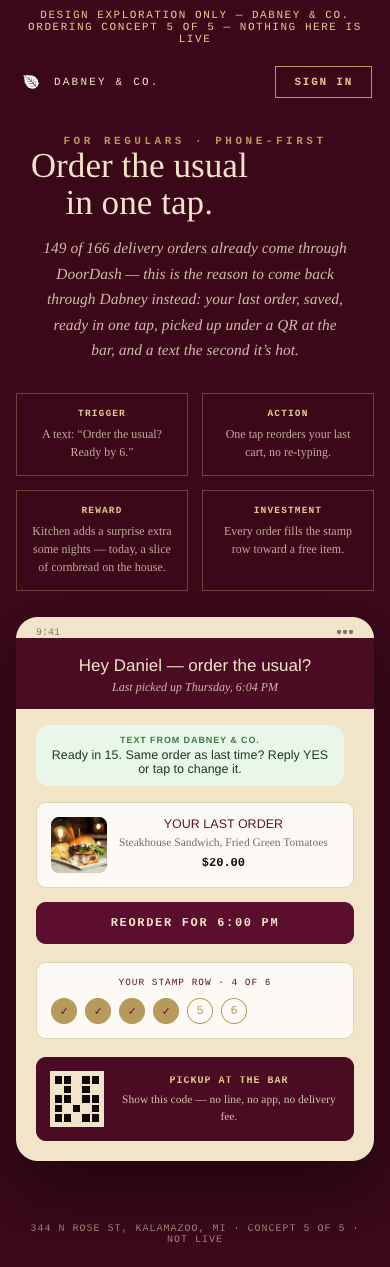
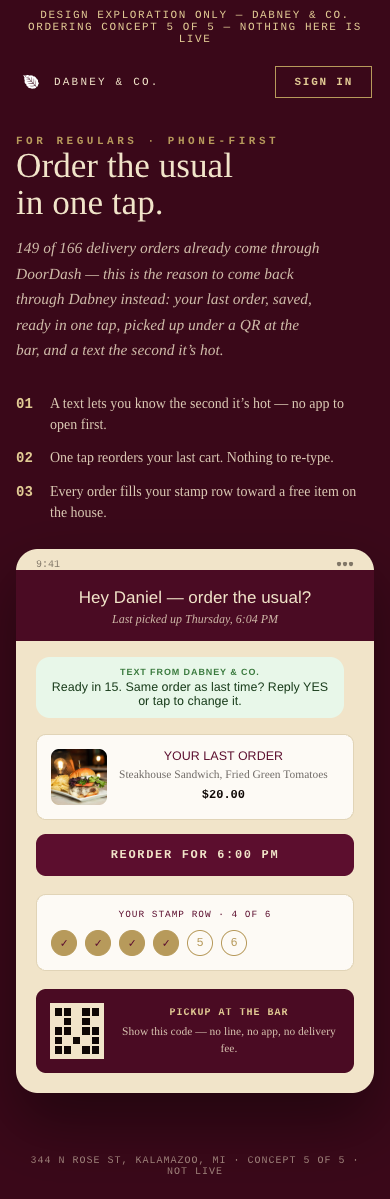
Fix Concept 4 with real live Pantry data; fix dates and hero alignment
- Concept 4 (Pantry Shelf): replaced placeholder SKUs/photos with the real
  three items, copy, allergen notes and photography read from the live
  dabneyandco.com/pantry (Honey Lemon Pepper Dressing, Grandma's Collard
  Green Dip, Black-Eyed Pea Hummus, The Dabney Trio). Photos downloaded
  from the live page's own image URLs and used untouched. "Pantry Drop"
  and the gift option are clearly tagged as proposed additions, not on
  the live page.
- Concept 3: corrected example dates using `date` (Oct 3 and Oct 10, 2026
  are both Saturdays; Oct 11 is a Sunday, when Dabney is closed) and
  labeled the 48-hour kitchen lead time plainly as proposed/unconfirmed.
- Concept 5: left-aligned the phone hero (headline/paragraph/list were
  inconsistently aligned due to a fixed-max-width block sitting flush-left
  inside a centered parent) and moved the Hook Model trigger/action/
  reward/investment framing out of the customer-facing mockup and into
  the review page's own explanatory copy, replacing it with plain
  customer benefit copy in the mockup itself.

diff --git a/public/p/dabney-ordering-concepts/mockups/concept-4-pantry.html b/public/p/dabney-ordering-concepts/mockups/concept-4-pantry.html
@@ -16,20 +16,26 @@
   .c4-body{padding:38px 40px 50px}
   .c4-note{font-family:var(--serif);font-style:italic;font-size:12.5px;color:rgba(15,8,5,.5);max-width:60ch;margin-bottom:26px}
   .shelf{display:grid;grid-template-columns:repeat(3,1fr);gap:1px;background:rgba(183,154,91,.4);border:1px solid rgba(183,154,91,.4)}
-  .jar{background:var(--paper);padding:26px 22px;display:flex;flex-direction:column;min-height:230px}
+  .jar{background:var(--paper);display:flex;flex-direction:column}
+  .jar-img{height:200px;overflow:hidden}
+  .jar-img img{width:100%;height:100%;object-fit:cover}
+  .jar-body{padding:20px 20px 22px;display:flex;flex-direction:column;flex:1}
   .jar-eyebrow{font-family:var(--mono);font-size:9.5px;font-weight:700;letter-spacing:.22em;text-transform:uppercase;color:var(--gold)}
   .jar-rule{width:30px;height:1px;background:var(--gold);margin:10px 0 14px}
   .jar-name{font-family:var(--sans);font-size:16px;text-transform:uppercase;color:var(--burg);line-height:1.25}
   .jar-desc{font-family:var(--serif);font-style:italic;font-size:12.5px;color:rgba(15,8,5,.62);margin-top:8px;line-height:1.55;flex:1}
-  .jar-row{display:flex;justify-content:space-between;align-items:center;margin-top:16px}
+  .jar-note{font-family:var(--mono);font-size:10px;color:rgba(15,8,5,.45);margin-top:10px;letter-spacing:.02em}
+  .jar-row{display:flex;justify-content:space-between;align-items:center;margin-top:14px}
   .jar-price{font-family:var(--mono);font-size:14px;font-weight:700}
   .jar-add{font-family:var(--mono);font-size:10px;font-weight:700;letter-spacing:.1em;text-transform:uppercase;padding:7px 13px;border:1px solid var(--burg);color:var(--burg);background:transparent}
 
-  .trio-band{margin-top:30px;background:var(--teal);color:var(--paper);padding:26px 30px;display:flex;justify-content:space-between;align-items:center;flex-wrap:wrap;gap:18px}
-  .trio-l .trio-name{font-family:var(--sans);font-size:20px;text-transform:uppercase}
-  .trio-l .trio-sub{font-family:var(--serif);font-style:italic;font-size:13px;color:rgba(241,228,201,.82);margin-top:4px}
-  .trio-price{font-family:var(--mono);font-size:24px;font-weight:700}
-  .trio-was{font-family:var(--mono);font-size:12px;text-decoration:line-through;color:rgba(241,228,201,.6);margin-right:8px}
+  .trio-band{position:relative;margin-top:30px;color:var(--paper);padding:40px 30px;display:flex;justify-content:space-between;align-items:center;flex-wrap:wrap;gap:18px;overflow:hidden}
+  .trio-bg{position:absolute;inset:0;width:100%;height:100%;object-fit:cover;z-index:0;filter:brightness(.42)}
+  .trio-l{position:relative;z-index:1;max-width:52ch}
+  .trio-l .trio-name{font-family:var(--sans);font-size:22px;text-transform:uppercase}
+  .trio-l .trio-sub{font-family:var(--serif);font-style:italic;font-size:13.5px;color:rgba(241,228,201,.88);margin-top:6px;line-height:1.5}
+  .trio-price{position:relative;z-index:1;font-family:var(--mono);font-size:26px;font-weight:700}
+  .c4-pickup{font-family:var(--serif);font-style:italic;font-size:12.5px;color:rgba(15,8,5,.55);max-width:80ch;margin-top:18px;line-height:1.6}
 
   .drop-row{display:grid;grid-template-columns:1fr 1fr;gap:20px;margin-top:32px}
   .opt-card{background:var(--paper);border:1px solid rgba(183,154,91,.4);padding:22px}
@@ -71,46 +77,60 @@
     <div class="h1">Take the kitchen home.</div>
     <p class="c4-sub">The dishes that travel best, packaged to go &mdash; pick them up Tuesday through Saturday, no reservation needed.</p>
   </div>
-  <div class="c4-hero-r"><img src="../img/hero-kitchen.jpg" alt="Packaged Dabney kitchen favorites"></div>
+  <div class="c4-hero-r"><img src="../img/pantry-hero.jpg" alt="A Southern supper table seen from above: chicken salad with honey lemon pepper dressing, Grandma's collard green dip, black-eyed pea hummus and cornbread"></div>
 </section>
 
 <div class="c4-body">
-  <p class="c4-note">Three items, priced from the kitchen&rsquo;s best-selling to-go dishes. The live Pantry page&rsquo;s exact three SKUs weren&rsquo;t available to read in this session, so these are placeholders built from real menu items and the review&rsquo;s real $12-each / $30-trio pricing &mdash; not the live page&rsquo;s actual copy or photos. Shown typographic, matching the site&rsquo;s own pattern for shop items without dedicated photography yet (see /shop).</p>
+  <p class="c4-note">The three real SKUs and real photography from the live dabneyandco.com/pantry (read Sep 29, 2026) &mdash; names, sizes, prices and allergen notes copied verbatim. &ldquo;Pantry Drop&rdquo; (recurring pickup) and the gift option below the shelf are NOT on the live page today &mdash; they're this concept's proposed additions on top of the real shelf.</p>
   <div class="shelf">
-    <div class="jar">
-      <span class="jar-eyebrow">Appetizer</span>
-      <div class="jar-rule"></div>
-      <div class="jar-name">Grandma's Collard Green Dip</div>
-      <div class="jar-desc">Packaged pint, reheats in five minutes. Serve with pita or crackers.</div>
-      <div class="jar-row"><span class="jar-price">$12.00</span><button class="jar-add">Add</button></div>
+    <div class="jar jar-photo">
+      <div class="jar-img"><img src="../img/pantry-salad.jpg" alt="Chicken salad drizzled with honey lemon pepper dressing"></div>
+      <div class="jar-body">
+        <span class="jar-eyebrow">Dressing &middot; 12 oz</span>
+        <div class="jar-rule"></div>
+        <div class="jar-name">Honey Lemon Pepper Dressing</div>
+        <div class="jar-desc">Our house dressing, the one on our honey lemon pepper chicken salad. Honey, maple, lemon and cracked black pepper. No oil, no vinegar.</div>
+        <div class="jar-note">Contains honey. Not for infants under 1 year.</div>
+        <div class="jar-row"><span class="jar-price">$12.00</span><button class="jar-add">Add</button></div>
+      </div>
     </div>
-    <div class="jar">
-      <span class="jar-eyebrow">Dessert</span>
-      <div class="jar-rule"></div>
-      <div class="jar-name">Peach Cobbler Cornbread</div>
-      <div class="jar-desc">A full pan, cream cheese icing on the side. Warms back up in the oven.</div>
-      <div class="jar-row"><span class="jar-price">$12.00</span><button class="jar-add">Add</button></div>
+    <div class="jar jar-photo">
+      <div class="jar-img"><img src="../img/pantry-collard.jpg" alt="A cracker dipped into warm collard green dip"></div>
+      <div class="jar-body">
+        <span class="jar-eyebrow">Dip &middot; 16 oz</span>
+        <div class="jar-rule"></div>
+        <div class="jar-name">Grandma's Collard Green Dip</div>
+        <div class="jar-desc">Warm, creamy and cheesy, folded with slow-cooked collard greens. Heat it up, grab the crackers, and watch it disappear.</div>
+        <div class="jar-note">Contains milk. Keep refrigerated. Warm before serving.</div>
+        <div class="jar-row"><span class="jar-price">$12.00</span><button class="jar-add">Add</button></div>
+      </div>
     </div>
-    <div class="jar">
-      <span class="jar-eyebrow">Appetizer</span>
-      <div class="jar-rule"></div>
-      <div class="jar-name">Black Eyed Pea Hummus</div>
-      <div class="jar-desc">Packaged pint with a bag of pita on the side.</div>
-      <div class="jar-row"><span class="jar-price">$12.00</span><button class="jar-add">Add</button></div>
+    <div class="jar jar-photo">
+      <div class="jar-img"><img src="../img/pantry-hummus.jpg" alt="A cracker scooping black-eyed pea hummus"></div>
+      <div class="jar-body">
+        <span class="jar-eyebrow">Dip &middot; 10 oz</span>
+        <div class="jar-rule"></div>
+        <div class="jar-name">Black-Eyed Pea Hummus</div>
+        <div class="jar-desc">Smooth black-eyed pea hummus with smoked paprika and a drizzle of olive oil. Good luck on a cracker, any day of the year.</div>
+        <div class="jar-note">Keep refrigerated.</div>
+        <div class="jar-row"><span class="jar-price">$12.00</span><button class="jar-add">Add</button></div>
+      </div>
     </div>
   </div>
 
   <div class="trio-band">
+    <img class="trio-bg" src="../img/pantry-spread.jpg" alt="">
     <div class="trio-l">
-      <div class="trio-name">The Trio</div>
-      <div class="trio-sub">All three, packaged together for pickup.</div>
+      <div class="trio-name">The Dabney Trio</div>
+      <div class="trio-sub">Honey lemon pepper dressing, Grandma's collard green dip and black-eyed pea hummus. Everything you need to set a table tonight.</div>
     </div>
-    <div><span class="trio-was">$36</span><span class="trio-price">$30</span></div>
+    <div><span class="trio-price">$30</span></div>
   </div>
+  <p class="c4-pickup">How pickup works, from the live page: order online and choose a pickup day and time &middot; everything is made fresh in small batches, kept cold and labeled with a use-by date &middot; grab it at 344 N Rose St, Kalamazoo, Tuesday to Saturday, 4pm to 9pm.</p>
 
   <div class="drop-row">
     <div class="opt-card">
-      <div class="opt-title">Pantry Drop &middot; recurring</div>
+      <div class="opt-title">Pantry Drop &middot; recurring <span class="proposed-tag">Proposed &mdash; not on the live page</span></div>
       <div class="opt-body">Same order, every week, ready without re-ordering. Skip or cancel anytime.</div>
       <div class="day-row">
         <span class="day off">Sun</span><span class="day off">Mon</span><span class="day active">Tue</span><span class="day">Wed</span><span class="day">Thu</span><span class="day">Fri</span><span class="day active">Sat</span>
@@ -118,7 +138,7 @@
       <div class="toggle-line"><span style="font-family:var(--mono);font-size:11.5px">Repeat every Tuesday</span><div class="switch"><div class="dot"></div></div></div>
     </div>
     <div class="opt-card">
-      <div class="opt-title">Send it as a gift</div>
+      <div class="opt-title">Send it as a gift <span class="proposed-tag">Proposed &mdash; not on the live page</span></div>
       <div class="opt-body">Pantry gifts pick up under someone else&rsquo;s name, with a card. Good for a new neighbor, a thank-you, a shiva or a new baby.</div>
       <div class="toggle-line"><span style="font-family:var(--mono);font-size:11.5px">This is a gift</span><div class="switch"><div class="dot"></div></div></div>
       <p style="font-family:var(--serif);font-style:italic;font-size:12px;color:rgba(15,8,5,.55);margin-top:10px">&ldquo;Welcome to the neighborhood &mdash; from the Mays.&rdquo;</p>

diff --git a/src/content/hub/dabney-ordering-concepts.ts b/src/content/hub/dabney-ordering-concepts.ts
@@ -137,27 +137,28 @@ export const concepts: Concept[] = [
     n: 4,
     id: "pantry",
     name: "The Pantry Shelf",
-    tagline: "Packaged retail, a $30 trio, a recurring pickup, and a gift option.",
+    tagline: "The real shelf: three real SKUs, a $30 trio, plus a proposed recurring pickup and gift option.",
     forWhom: "Someone who wants Dabney at home without a reservation — a gift, a weekly habit, a cabinet stocked with the kitchen's best-travelling dishes.",
     steps: [
-      "Browse three packaged items (typographic cards, matching the real /shop page's pattern for items without dedicated photography yet)",
-      "See the trio price called out against the à-la-carte total",
-      "Optionally turn on \"Pantry Drop\" — the same order, repeating on a chosen weekday, Tue–Sat",
-      "Optionally mark it as a gift, with a note",
-      "Add to cart",
+      "Browse the three real Pantry items, with the live page's real photos and copy",
+      "See the trio ($30) called out against the three individual $12 items",
+      "Optionally turn on \"Pantry Drop\" — proposed, not on the live page today — the same order, repeating on a chosen weekday, Tue–Sat",
+      "Optionally mark it as a gift, with a note — also proposed, not live today",
+      "Add to cart; pickup is Tue–Sat, 4–9 PM at the bar, per the live page",
     ],
     fixes:
       "Grade: \"The Pantry\" (C) — \"a clear offer… 0 orders so far. It's retail, not dinner delivery, so it can't carry the $10k goal alone.\"",
     effect:
       "Doesn't move the $10k delivery goal by itself (the review says so directly) — it's a second, small, commission-free revenue line with near-zero marginal kitchen labor, and \"Pantry Drop\" is the one piece of this whole review that creates a recurring order instead of a one-off.",
     build: [
-      { label: "Live Pantry SKUs/photos", exists: false, note: "GAP: dabneyandco.com/pantry is referenced in the ordering review as a live page with 3 SKUs at $12 each / $30 for the trio, but no /pantry route exists in this local checkout of ~/Projects/dabney, and no dedicated packaged-retail photography was found in public/. The three items and photos shown here are placeholders — real menu dishes at the review's real prices, not the live page's actual copy." },
-      { label: "Recurring \"Pantry Drop\"", exists: false, note: "New. Would need a subscription/recurring-order object — Stripe supports recurring Checkout, but nothing in this codebase wires a recurring food pre-order today." },
-      { label: "Checkout", exists: true, note: "Same Stripe Checkout pattern as invoice/membership payments — this is closer to the gift-card flow (src/app/api/giftcard/checkout) than to a same-day Toast order, since it's pure retail with no real-time kitchen ticket." },
+      { label: "Live Pantry SKUs/photos", exists: true, note: "Read directly from the live dabneyandco.com/pantry (Sep 29, 2026): Honey Lemon Pepper Dressing (12 oz, $12, contains honey, not for infants under 1), Grandma's Collard Green Dip (16 oz, $12, contains milk, keep refrigerated), Black-Eyed Pea Hummus (10 oz, $12, keep refrigerated), and The Dabney Trio ($30, all three). Photos pulled from the live page's own image URLs (/pantry/img/salad.jpg, collard.jpg, hummus.jpg, spread.jpg, hero.jpg) and used untouched. Pickup: Tue–Sat, 4–9 PM at the bar, small batches kept cold with a use-by label — also copied from the live page." },
+      { label: "Recurring \"Pantry Drop\"", exists: false, note: "New, and NOT on the live page — this concept's proposed addition. Would need a subscription/recurring-order object; Stripe supports recurring Checkout, but nothing in this codebase wires a recurring food pre-order today." },
+      { label: "Gift option", exists: false, note: "New, and NOT on the live page — the live Pantry has no gift/send-to-someone-else flow today. Proposed here, clearly tagged as such on the mockup." },
+      { label: "Checkout", exists: false, note: "The live Pantry already has its own order flow at /pantry/order/ (not read in this session) — closer to the gift-card Stripe flow (src/app/api/giftcard/checkout) than to a same-day Toast order, since it's pure retail with no real-time kitchen ticket." },
     ],
-    effort: "Low for a one-time trio purchase (closest to the existing gift-card Stripe flow); medium for true recurring \"Pantry Drop\" billing and fulfillment reminders.",
+    effort: "Low — the real shelf and trio already exist live; the new work here is just \"Pantry Drop\" recurring billing and the gift flow.",
     risks: [
-      "The live Pantry page's real photography and exact SKU copy weren't available to read in this session — don't ship the placeholder dish names without checking the real page first.",
+      "\"Pantry Drop\" and the gift option are additions on top of a page that already works today — worth confirming they're wanted before building, not because the shelf itself is unproven.",
       "Recurring orders need someone to actually prep and hold three items every week without a reservation system prompting it — an operational commitment, not just a checkout feature.",
     ],
     shots: { desktop: `${BASE}/shots/concept-4-pantry-1440.png`, phone: `${BASE}/shots/concept-4-pantry-390.png` },
@@ -198,7 +199,7 @@ export const concepts: Concept[] = [
 
 export const designNotes = [
   "Brand tokens copied verbatim from dabney-brand.css and globals.css: paper #F1E4C9, cream #FDFAF5, burg #5C0E2E, gold #B79A5B, ink #0F0805, teal #0B504F; Arimo / Tinos / Cousine.",
-  "Real dish names and prices read from ~/Projects/dabney/menu-mockups/data/menu.json (the DABNEY KITCHEN section). Real photography from public/images and public/menu-book/covers/assets — the in-room shots (steakhouse sandwich, flatbread, southern-kitchen-hero, private-events-hero), not the white-background product renders in mockups/food-assets, which read as AI/heavily-styled and were left out of these five concepts.",
-  "Design references consulted and named per concept: refactoring-ui (hierarchy, spacing, one accent color) for the counter and bundle wizard layouts; hooked-ux (Nir Eyal's Hook Model) explicitly for Concept 5's trigger/action/reward/investment structure; component-patterns-mastery.md for the stepper and cart-panel patterns. No knowledge-design file was found specific to restaurant ordering — general commerce/UX patterns were used instead, noted here rather than cited to a file that doesn't exist.",
-  "All five are static HTML, screenshotted headless (Playwright, channel 'chrome', no visible window) at 1440×900 desktop and 390×844 phone. Run through node ~/arthur/scripts/visual-critic.mjs against every screenshot; the tool flagged \"cut off\" on full-bleed banner/footer text near the image edge on several renders — verified false by pixel-level crops (the text has full padding inside its own band; the critic appears to conflate \"near the screenshot edge\" with \"clipped by its container\" on this full-bleed layout style). Genuine issues it caught were fixed: a duplicate/mismatched stock photo on two different Pantry items (replaced with typographic cards matching the real /shop page's own convention for un-photographed items), a background-color bleed below the page footer on two mockups, and cart line-items wrapping badly on the 390px view.",
+  "Real dish names and prices read from ~/Projects/dabney/menu-mockups/data/menu.json (the DABNEY KITCHEN section) for Concepts 1–3. Concept 4's items, copy, allergen notes and photos are read directly from the LIVE dabneyandco.com/pantry (verified Sep 29, 2026), not from the local repo. Other real photography from public/images and public/menu-book/covers/assets — the in-room shots (steakhouse sandwich, flatbread, southern-kitchen-hero, private-events-hero), not the white-background product renders in mockups/food-assets, which read as AI/heavily-styled and were left out of these five concepts.",
+  "Design references consulted and named per concept: refactoring-ui (hierarchy, spacing, one accent color) for the counter and bundle wizard layouts; hooked-ux (Nir Eyal's Hook Model) for Concept 5's design logic — the framework is explained here on the review page, not exposed as jargon in the customer-facing mockup itself, which just shows the resulting trigger/action/reward/investment as plain benefit copy; component-patterns-mastery.md for the stepper and cart-panel patterns. No knowledge-design file was found specific to restaurant ordering — general commerce/UX patterns were used instead, noted here rather than cited to a file that doesn't exist.",
+  "All five are static HTML, screenshotted headless (Playwright, channel 'chrome', no visible window) at 1440×900 desktop and 390×844 phone. Run through node ~/arthur/scripts/visual-critic.mjs against every screenshot; the tool flagged \"cut off\" on full-bleed banner/footer text near the image edge on several renders — verified false by pixel-level crops (the text has full padding inside its own band; the critic appears to conflate \"near the screenshot edge\" with \"clipped by its container\" on this full-bleed layout style). Genuine issues it caught or that a coordinator review caught were fixed: a background-color bleed below the page footer on two mockups, cart line-items wrapping badly on the 390px view, Concept 3's example dates not matching real weekdays (recomputed with `date`, never asserted), and Concept 5's phone hero text-align inconsistency between a centered paragraph and a left-drifting two-line heading (a block box with max-width sitting flush-left inside a text-align:center parent — fixed by left-aligning the whole hero at the phone breakpoint).",
 ];

diff --git a/public/p/dabney-ordering-concepts/mockups/concept-5-regulars.html b/public/p/dabney-ordering-concepts/mockups/concept-5-regulars.html
@@ -11,10 +11,9 @@
   .c5-copy{color:var(--paper)}
   .c5-h1{color:var(--paper);max-width:14ch}
   .c5-sub{font-family:var(--serif);font-style:italic;color:rgba(241,228,201,.82);max-width:40ch;margin-top:14px;font-size:15.5px;line-height:1.65}
-  .hook-row{display:grid;grid-template-columns:repeat(2,1fr);gap:14px;margin-top:30px;max-width:440px}
-  .hook{border:1px solid rgba(226,203,148,.3);padding:14px}
-  .hook b{display:block;font-family:var(--mono);font-size:9.5px;letter-spacing:.12em;text-transform:uppercase;color:var(--goldlt)}
-  .hook span{display:block;font-family:var(--serif);font-size:12px;color:rgba(241,228,201,.75);margin-top:6px;line-height:1.5}
+  .why-row{display:grid;gap:12px;margin-top:30px;max-width:420px}
+  .why{display:grid;grid-template-columns:22px 1fr;gap:12px;align-items:baseline;font-family:var(--serif);font-size:14px;color:rgba(241,228,201,.88);line-height:1.5}
+  .why b{font-family:var(--mono);color:var(--goldlt)}
 
   .phone{background:var(--paper);border-radius:34px;border:8px solid #17181c;width:360px;margin:0 auto;overflow:hidden;box-shadow:0 30px 60px rgba(0,0,0,.4)}
   .phone-status{display:flex;justify-content:space-between;padding:10px 20px 0;font-family:var(--mono);font-size:10px;color:rgba(15,8,5,.5)}
@@ -50,12 +49,16 @@
     .c5-wrap{grid-template-columns:1fr;padding:30px 24px 50px;justify-items:center;text-align:center}
     .c5-copy{text-align:center}
     .c5-sub{margin-left:auto;margin-right:auto}
-    .hook-row{margin-left:auto;margin-right:auto}
+    .why-row{margin-left:auto;margin-right:auto}
   }
   @media (max-width:480px){
-    .c5-wrap{padding:20px 16px 40px;gap:26px}
+    .c5-wrap{padding:20px 16px 40px;gap:26px;justify-items:stretch}
     .phone{width:100%;border-radius:22px;border-width:0}
-    .hook-row{grid-template-columns:1fr 1fr;max-width:100%}
+    /* Left-align the whole hero on phone — a centered box with a fixed max-width just
+       looks like a headline mis-indent (each <br> line centers within a narrow, left-anchored
+       box instead of the box itself centering), so phone gets a plain left-aligned column. */
+    .c5-copy{text-align:left}
+    .c5-sub,.why-row{margin-left:0;margin-right:0}
   }
 </style>
 </head>
@@ -72,11 +75,10 @@
     <span class="eyebrow">For Regulars &middot; Phone-First</span>
     <div class="c5-h1 h1">Order the usual in one tap.</div>
     <p class="c5-sub">149 of 166 delivery orders already come through DoorDash &mdash; this is the reason to come back through Dabney instead: your last order, saved, ready in one tap, picked up under a QR at the bar, and a text the second it&rsquo;s hot.</p>
-    <div class="hook-row">
-      <div class="hook"><b>Trigger</b><span>A text: &ldquo;Order the usual? Ready by 6.&rdquo;</span></div>
-      <div class="hook"><b>Action</b><span>One tap reorders your last cart, no re-typing.</span></div>
-      <div class="hook"><b>Reward</b><span>Kitchen adds a surprise extra some nights &mdash; today, a slice of cornbread on the house.</span></div>
-      <div class="hook"><b>Investment</b><span>Every order fills the stamp row toward a free item.</span></div>
+    <div class="why-row">
+      <div class="why"><b>01</b><span>A text lets you know the second it&rsquo;s hot &mdash; no app to open first.</span></div>
+      <div class="why"><b>02</b><span>One tap reorders your last cart. Nothing to re-type.</span></div>
+      <div class="why"><b>03</b><span>Every order fills your stamp row toward a free item on the house.</span></div>
     </div>
   </div>
 

diff --git a/public/p/dabney-ordering-concepts/mockups/concept-3-gathering.html b/public/p/dabney-ordering-concepts/mockups/concept-3-gathering.html
@@ -84,10 +84,10 @@
         <div class="slider-num">25</div>
       </div>
       <div class="datebar">
-        <div class="datefield"><label>Pickup date</label><div class="val">Sat, Oct 11</div></div>
+        <div class="datefield"><label>Pickup date</label><div class="val">Sat, Oct 10</div></div>
         <div class="datefield"><label>Pickup time</label><div class="val">12:30 PM</div></div>
       </div>
-      <p class="lead-note">Pickup must be at least 48 hours out so the kitchen can prep &mdash; today the earliest slot would be Fri, Oct 3, 2:00 PM. (Kitchen lead time is a placeholder default here; confirm the real number before this ships.)</p>
+      <p class="lead-note"><span class="proposed-tag">Proposed, not confirmed</span> Pickup at least 48 hours out so the kitchen can prep &mdash; today the earliest slot would be Sat, Oct 3, 2:00 PM. Confirm the real kitchen lead time before this ships.</p>
     </div>
 
     <div class="tiers">
@@ -125,7 +125,7 @@
       <div class="deposit-row"><span>Deposit due today (50%)</span><span>$262.00</span></div>
       <div class="deposit-row total"><span>Due at pickup</span><span>$262.00</span></div>
     </div>
-    <a class="btn full" href="#" style="margin-top:20px">Pay deposit &amp; hold Oct 11, 12:30 PM</a>
+    <a class="btn full" href="#" style="margin-top:20px">Pay deposit &amp; hold Oct 10, 12:30 PM</a>
     <p class="rec-note" style="color:rgba(15,8,5,.55);margin-top:14px">Every line above is today&rsquo;s real à la carte kitchen price, divided across the headcount &mdash; there is no separate catering SKU yet. Deposit checkout would run on the same Stripe Checkout pattern already live for private-event and invoice payments.</p>
   </div>
 </div>

diff --git a/public/p/dabney-ordering-concepts/mockups/concepts.css b/public/p/dabney-ordering-concepts/mockups/concepts.css
@@ -43,6 +43,7 @@ h1,h2,h3{font-family:var(--sans);font-weight:400;text-transform:uppercase;letter
 .pill.gold{background:var(--paper);color:var(--burg);border:1px solid var(--gold)}
 .pill.ok{background:var(--ok-bg);color:var(--ok)}
 .pill.teal{background:var(--teal);color:var(--paper)}
+.proposed-tag{display:inline-block;margin-left:8px;font-family:var(--mono);font-size:9px;font-weight:700;letter-spacing:.08em;text-transform:none;color:var(--gold);border:1px solid var(--gold);border-radius:99px;padding:2px 8px;vertical-align:middle}
 
 .card{background:var(--cream);border:1px solid rgba(183,154,91,.4)}
 
